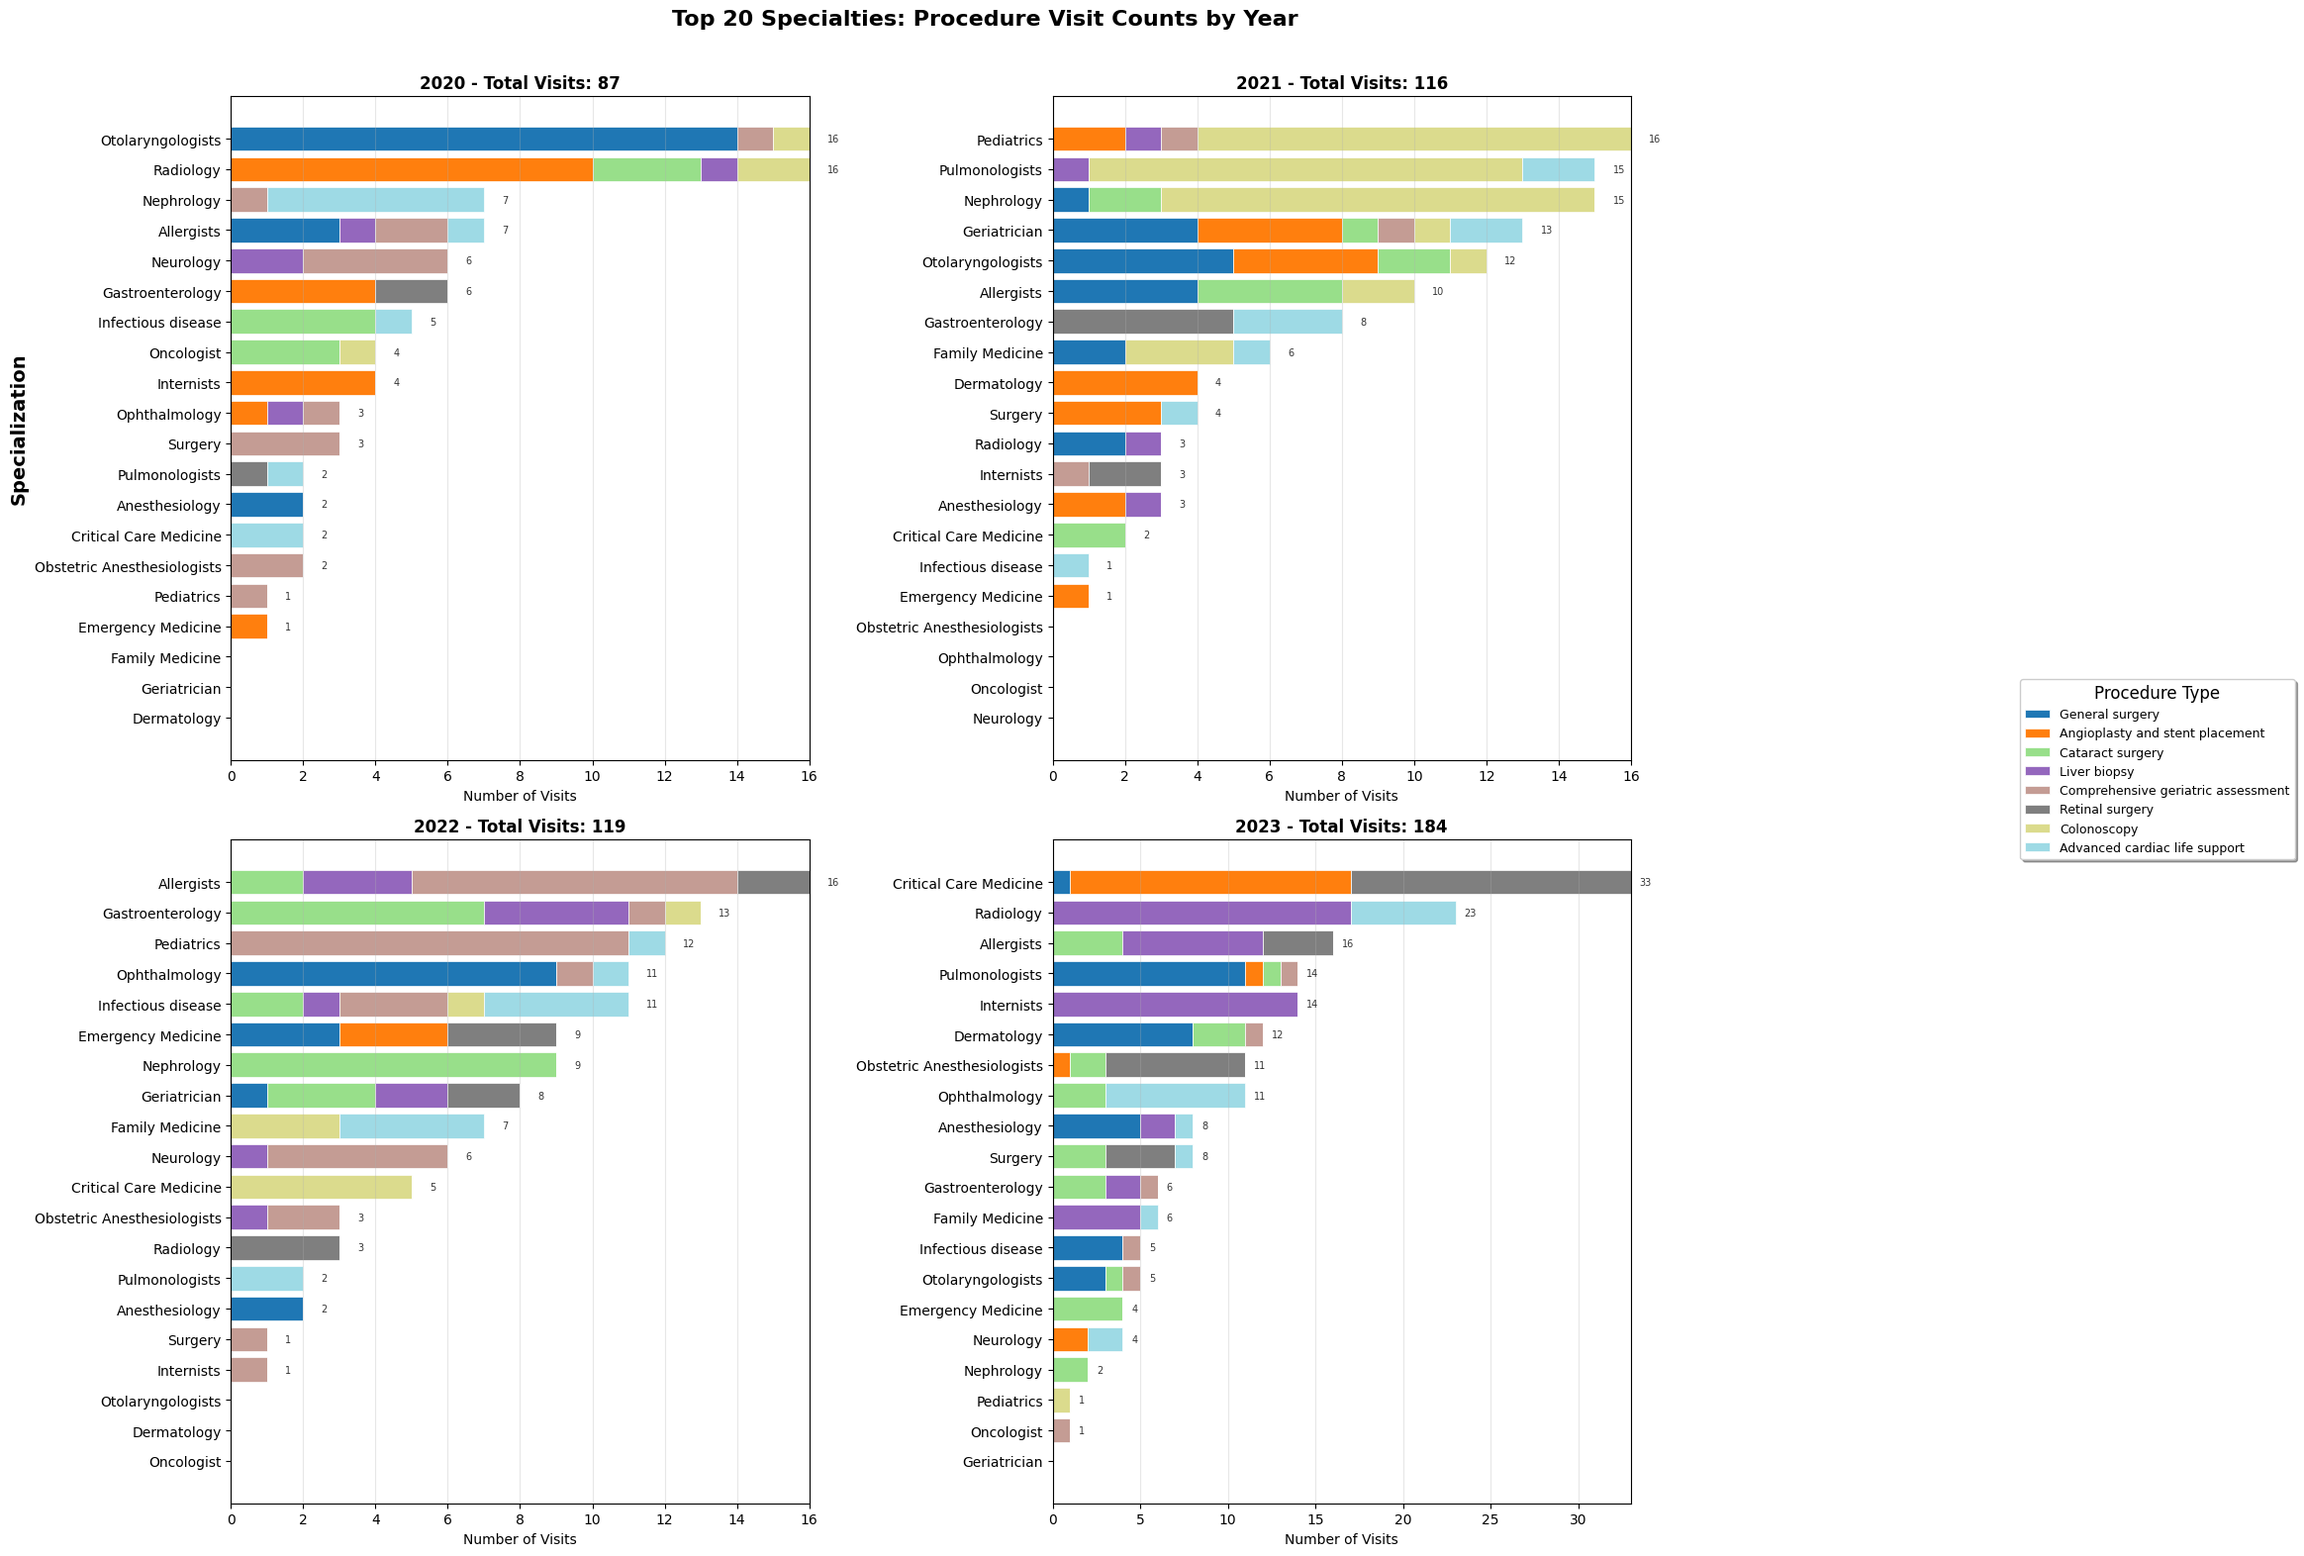
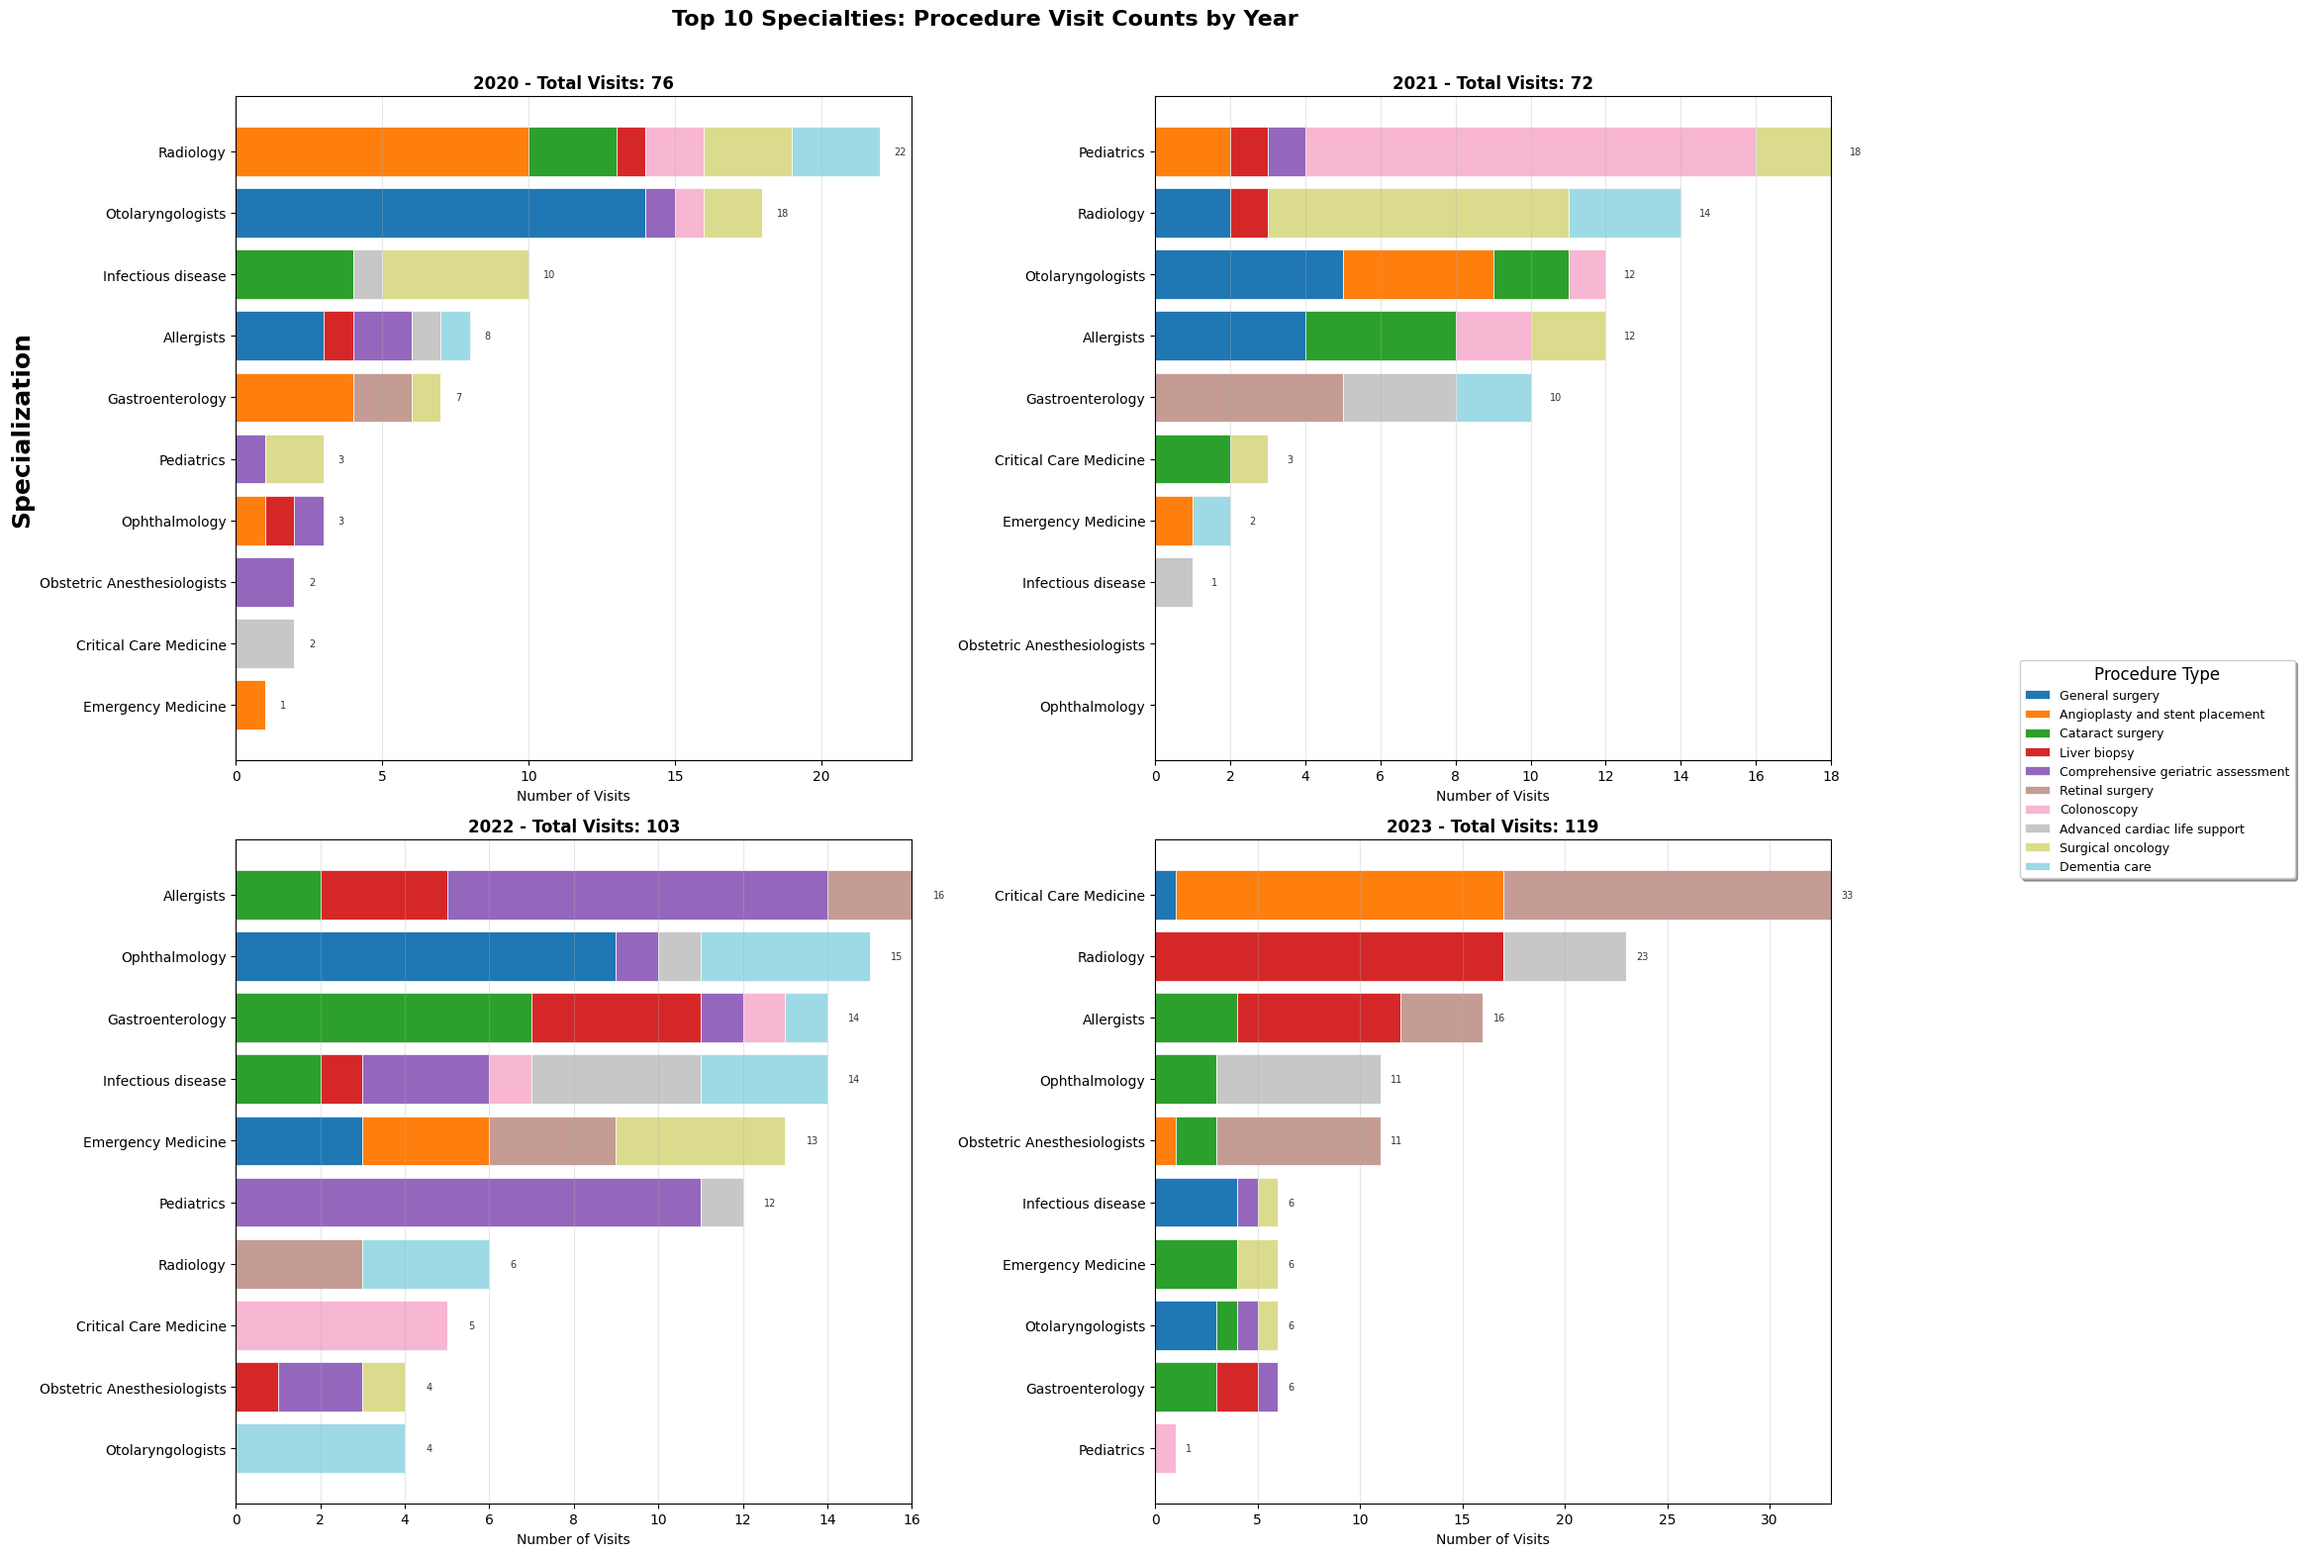
format the charts and add README

diff --git a/dataanalysis_health.py b/dataanalysis_health.py
@@ -208,16 +208,16 @@ year_procedure = sorted(appointments_procedure_cln['Year'].unique()) # Get uniqu
 procedures_visits = appointments_procedure_cln.groupby(
     ['Year', 'Specialization', 'ProcedureName']
 ).size().reset_index(name='visit_procedure_count')
-top_20_specialties = appointments_procedure_cln.groupby('Specialization').size().nlargest(20).index # Top 20 specialties by visit count
-procedure_counts_top20 = procedures_visits[procedures_visits['Specialization'].isin(top_20_specialties)] # Filter to top 20 specialties
+top_10_specialties = appointments_procedure_cln.groupby('Specialization').size().nlargest(10).index # Top 10 specialties by visit count
+procedure_counts_top10 = procedures_visits[procedures_visits['Specialization'].isin(top_10_specialties)] # Filter to top 10 specialties
 
 # Get top 5-10 procedures for better visualization
-top_procedures = procedures_visits.groupby('ProcedureName')['visit_procedure_count'].sum().nlargest(8).index
-procedure_counts_top20 = procedure_counts_top20[procedure_counts_top20['ProcedureName'].isin(top_procedures)]
+top_procedures = procedures_visits.groupby('ProcedureName')['visit_procedure_count'].sum().nlargest(10).index
+procedure_counts_top10 = procedure_counts_top10[procedure_counts_top10['ProcedureName'].isin(top_procedures)]
 
 fig, axes = plt.subplots(2, 2, figsize=(20, 16))
 fig.subplots_adjust(hspace=0.4, wspace=0.3, top=0.92, bottom=0.08, left=0.12, right=0.85)
-fig.suptitle('Top 20 Specialties: Procedure Visit Counts by Year', fontsize=16, fontweight='bold')
+fig.suptitle('Top 10 Specialties: Procedure Visit Counts by Year', fontsize=16, fontweight='bold')
 axes_flat = axes.flatten() # Flatten axes for easier iteration
 
 # Create color map for procedures
@@ -226,7 +226,7 @@ procedure_colors = dict(zip(top_procedures, colors))
 
 for idx, year in enumerate(year_procedure):
     # Filter data for the year
-    year_procedure = procedure_counts_top20[procedure_counts_top20['Year'] == year]
+    year_procedure = procedure_counts_top10[procedure_counts_top10['Year'] == year]
     
     # Create pivot table: Specialization as rows, Procedure as columns
     pivot_data = year_procedure.pivot(
@@ -235,8 +235,8 @@ for idx, year in enumerate(year_procedure):
         values='visit_procedure_count'
     ).fillna(0)
     
-    # Ensure all top 20 specializations are present
-    for specialty in top_20_specialties:
+    # Ensure all top 10 specializations are present
+    for specialty in top_10_specialties:
         if specialty not in pivot_data.index:
             pivot_data.loc[specialty] = 0
     
@@ -266,7 +266,7 @@ for idx, year in enumerate(year_procedure):
     axes_flat[idx].set_title(f'{year} - Total Visits: {year_procedure["visit_procedure_count"].sum():,}', fontsize=12, fontweight='bold')
     axes_flat[idx].set_xlabel('Number of Visits', fontsize=10)
     if idx == 0:
-        axes_flat[idx].set_ylabel('Specialization', fontsize=14, fontweight='semibold', wrap=True)
+        axes_flat[idx].set_ylabel('Specialization', fontsize=18, fontweight='semibold', wrap=True)
 
     # Add grid
     axes_flat[idx].grid(True, alpha=0.3, axis='x')
@@ -295,7 +295,7 @@ fig.legend(
 )
 
 # Adjust layout to prevent any overlap
-plt.tight_layout(rect=[0, 0, 0.85, 0.97])
+plt.tight_layout(rect=[0, 0, 0.95, 0.97])
 plt.savefig('procedure_visits_by_specialty.png', bbox_inches='tight') # Save and show
 plt.show()
 

diff --git a/README.md b/README.md
@@ -59,6 +59,10 @@ Performed the following tasks:
 |   2022 | $45,386,523     |                    133 |            91 | 68.0%          | $498,753            |            -10   |             -10 |
 |   2023 | $54,579,158     |                    165 |           109 | 66.0%          | $500,726            |             20   |              20 |
 
+### Revenue Per Specialization
+![Revenue per Specialization](specialization_revenue_analysis.png)
+
+
 ## Charts
 ### Healthcare Trends (2020 - 2023) - Visits, Revenue
 ![Healthcare Visits and Revenue Trends](healthcare_KPI_summary.png)
@@ -66,12 +70,14 @@ Performed the following tasks:
 ![Billing rate](patient_visits_vs_bills.png)
 ### Top Specialization Visits per year (2020 - 2023)
 ![Top Specialization Visits](procedure_visits_by_specialty.png)
-### Top Revenue and Revenue per Visit by specialization (2020 - 2023)
+### Top Revenue and Cost per Visit by specialization (2020 - 2023)
+![Revenue per Specialization](specialization_revenue_analysis.png)
 
 ### Summary 
 The analysis results were as follows:
-1. The healthcare facility had the lowest revenue in the year with the lowest billing
-2. The was a consistent decline in revenue in 2021 o 2022 due to .... compared to 2023 where...
+1. The healthcare facility had a consistent decline in revenue and visits from 2020 to 2022 but registered a sharp increase of 20% in 2023.
+2. It is evident that the billing rate of the patients booked has no direct correlation with the growth in revenue or visits, the performance of the facility is significantly influence by the number of patients visits and the cost of service.
+- As observed in 2023, the facility had 66% billing rate of appointments but has the highest growth rate due to its high cost per vist and patient visits.
 3. The speciality with the highest visits was ....
 
 ### Recommendation
